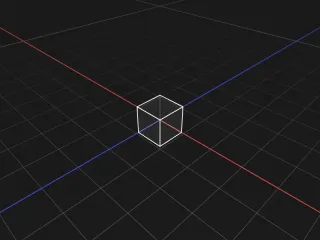
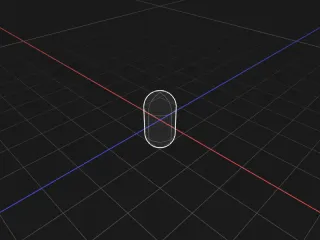
chore: Default the shape gizmo example to the capsule

Changed region(s): [[0.4062, 0.3792, 0.5938, 0.6125]]

diff --git a/examples/src/examples/gizmos/shape.controls.jsx b/examples/src/examples/gizmos/shape.controls.jsx
@@ -22,7 +22,7 @@ import { PROJECTION_ORTHOGRAPHIC, PROJECTION_PERSPECTIVE } from 'playcanvas';
  */
 export function Controls({ observer }) {
     const [proj, setProj] = useState(/** @type {number} */ (PROJECTION_PERSPECTIVE));
-    const [type, setType] = useState('box');
+    const [type, setType] = useState('capsule');
 
     return (
         <>
